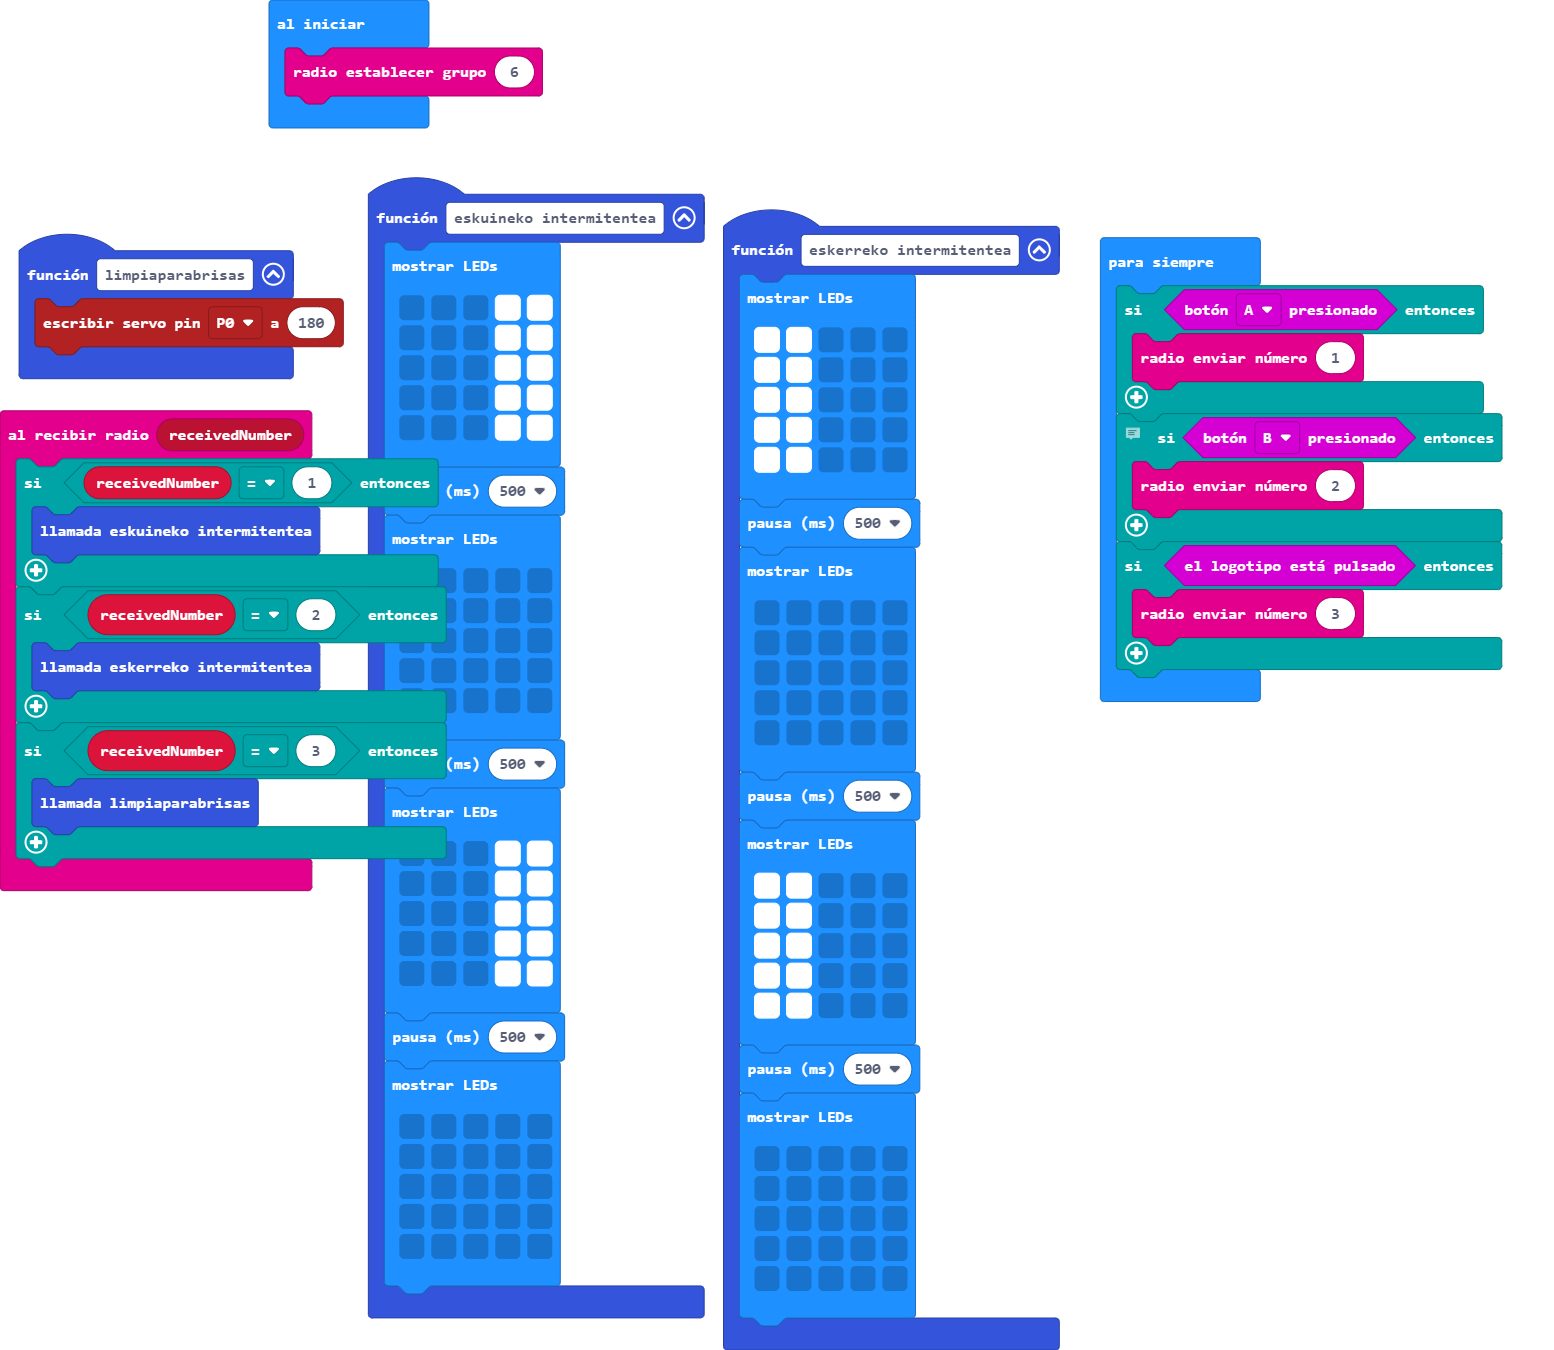
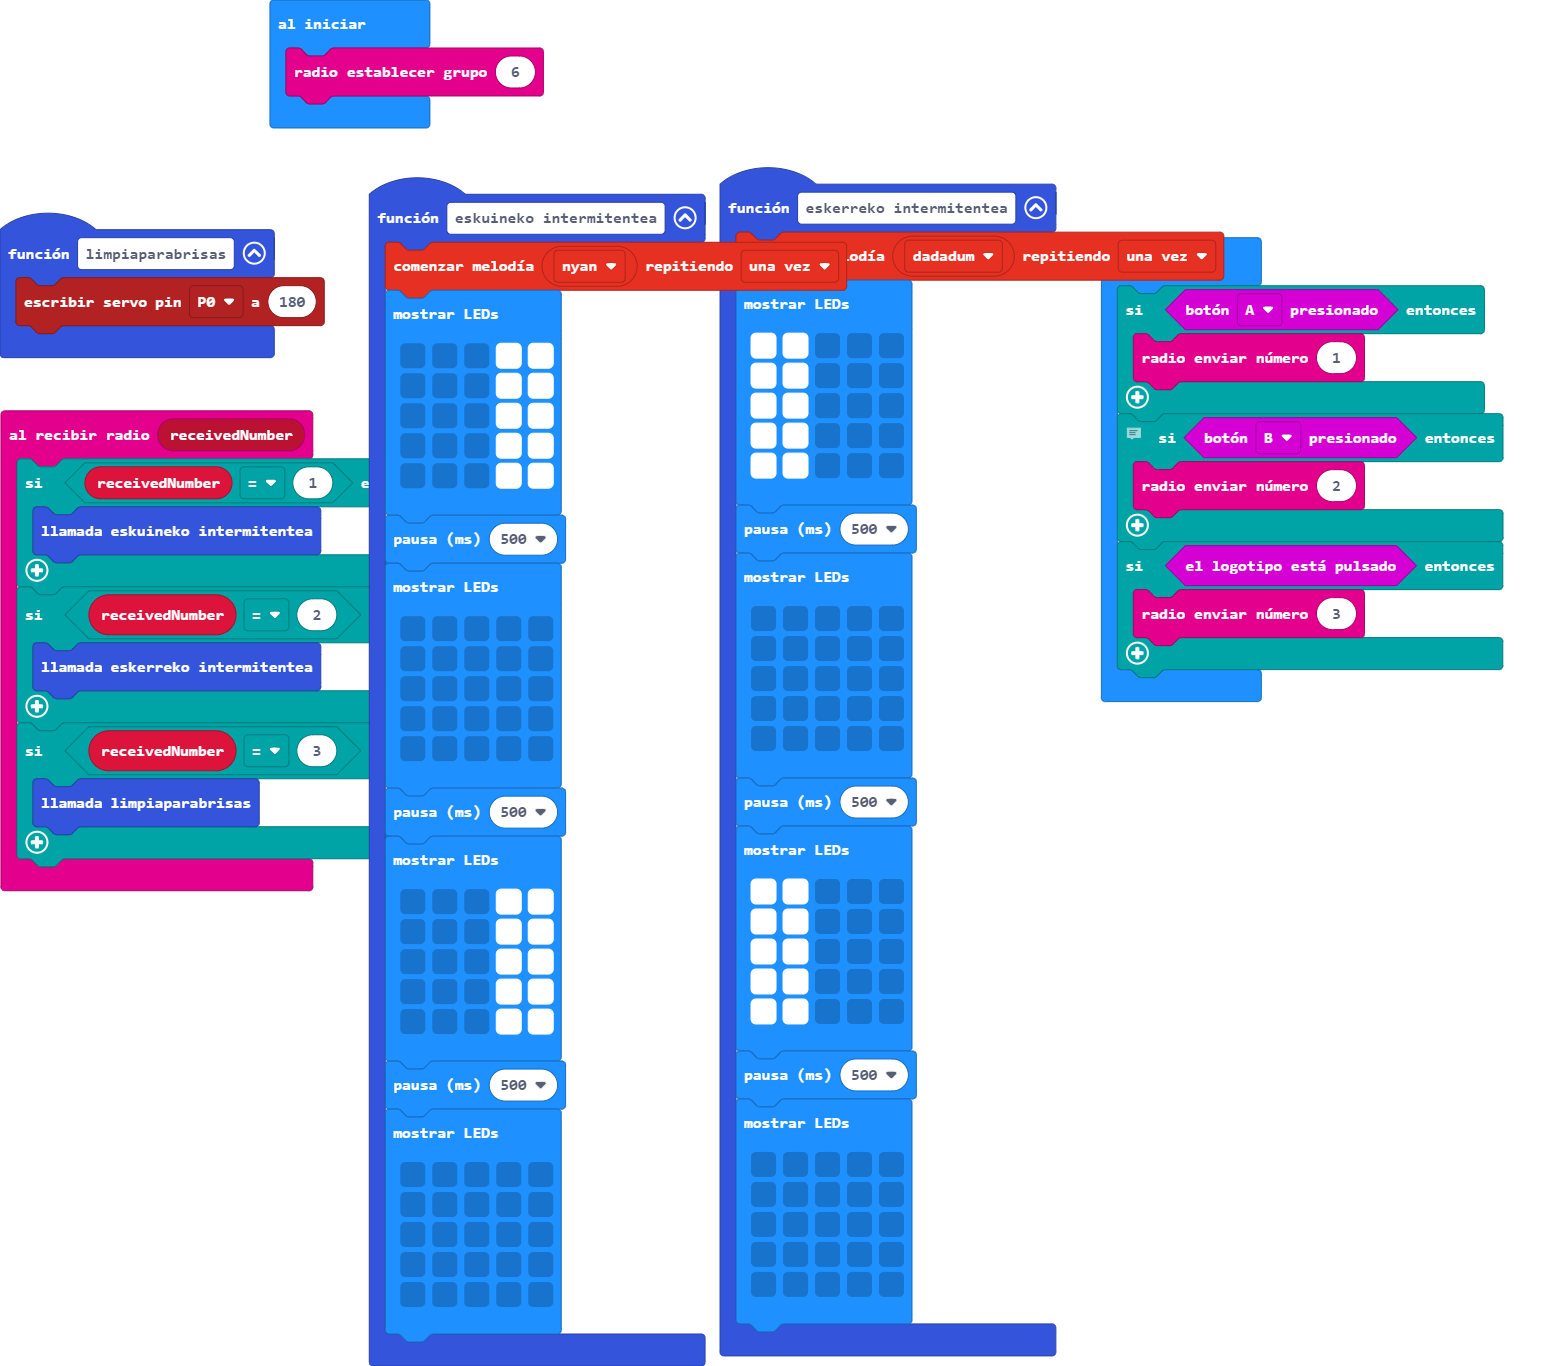
Actualizar main.blocks, main.ts

Changed region(s): [[0.0, 0.1244, 0.9884, 1.0], [0.1853, 0.0, 0.3398, 0.0933]]

diff --git a/main.ts b/main.ts
@@ -13,6 +13,7 @@ function limpiaparabrisas () {
     pins.servoWritePin(AnalogPin.P0, 180)
 }
 function eskerreko_intermitentea () {
+    music.startMelody(music.builtInMelody(Melodies.Dadadadum), MelodyOptions.Once)
     basic.showLeds(`
         # # . . .
         # # . . .
@@ -46,6 +47,7 @@ function eskerreko_intermitentea () {
         `)
 }
 function eskuineko_intermitentea () {
+    music.startMelody(music.builtInMelody(Melodies.Nyan), MelodyOptions.Once)
     basic.showLeds(`
         . . . # #
         . . . # #
